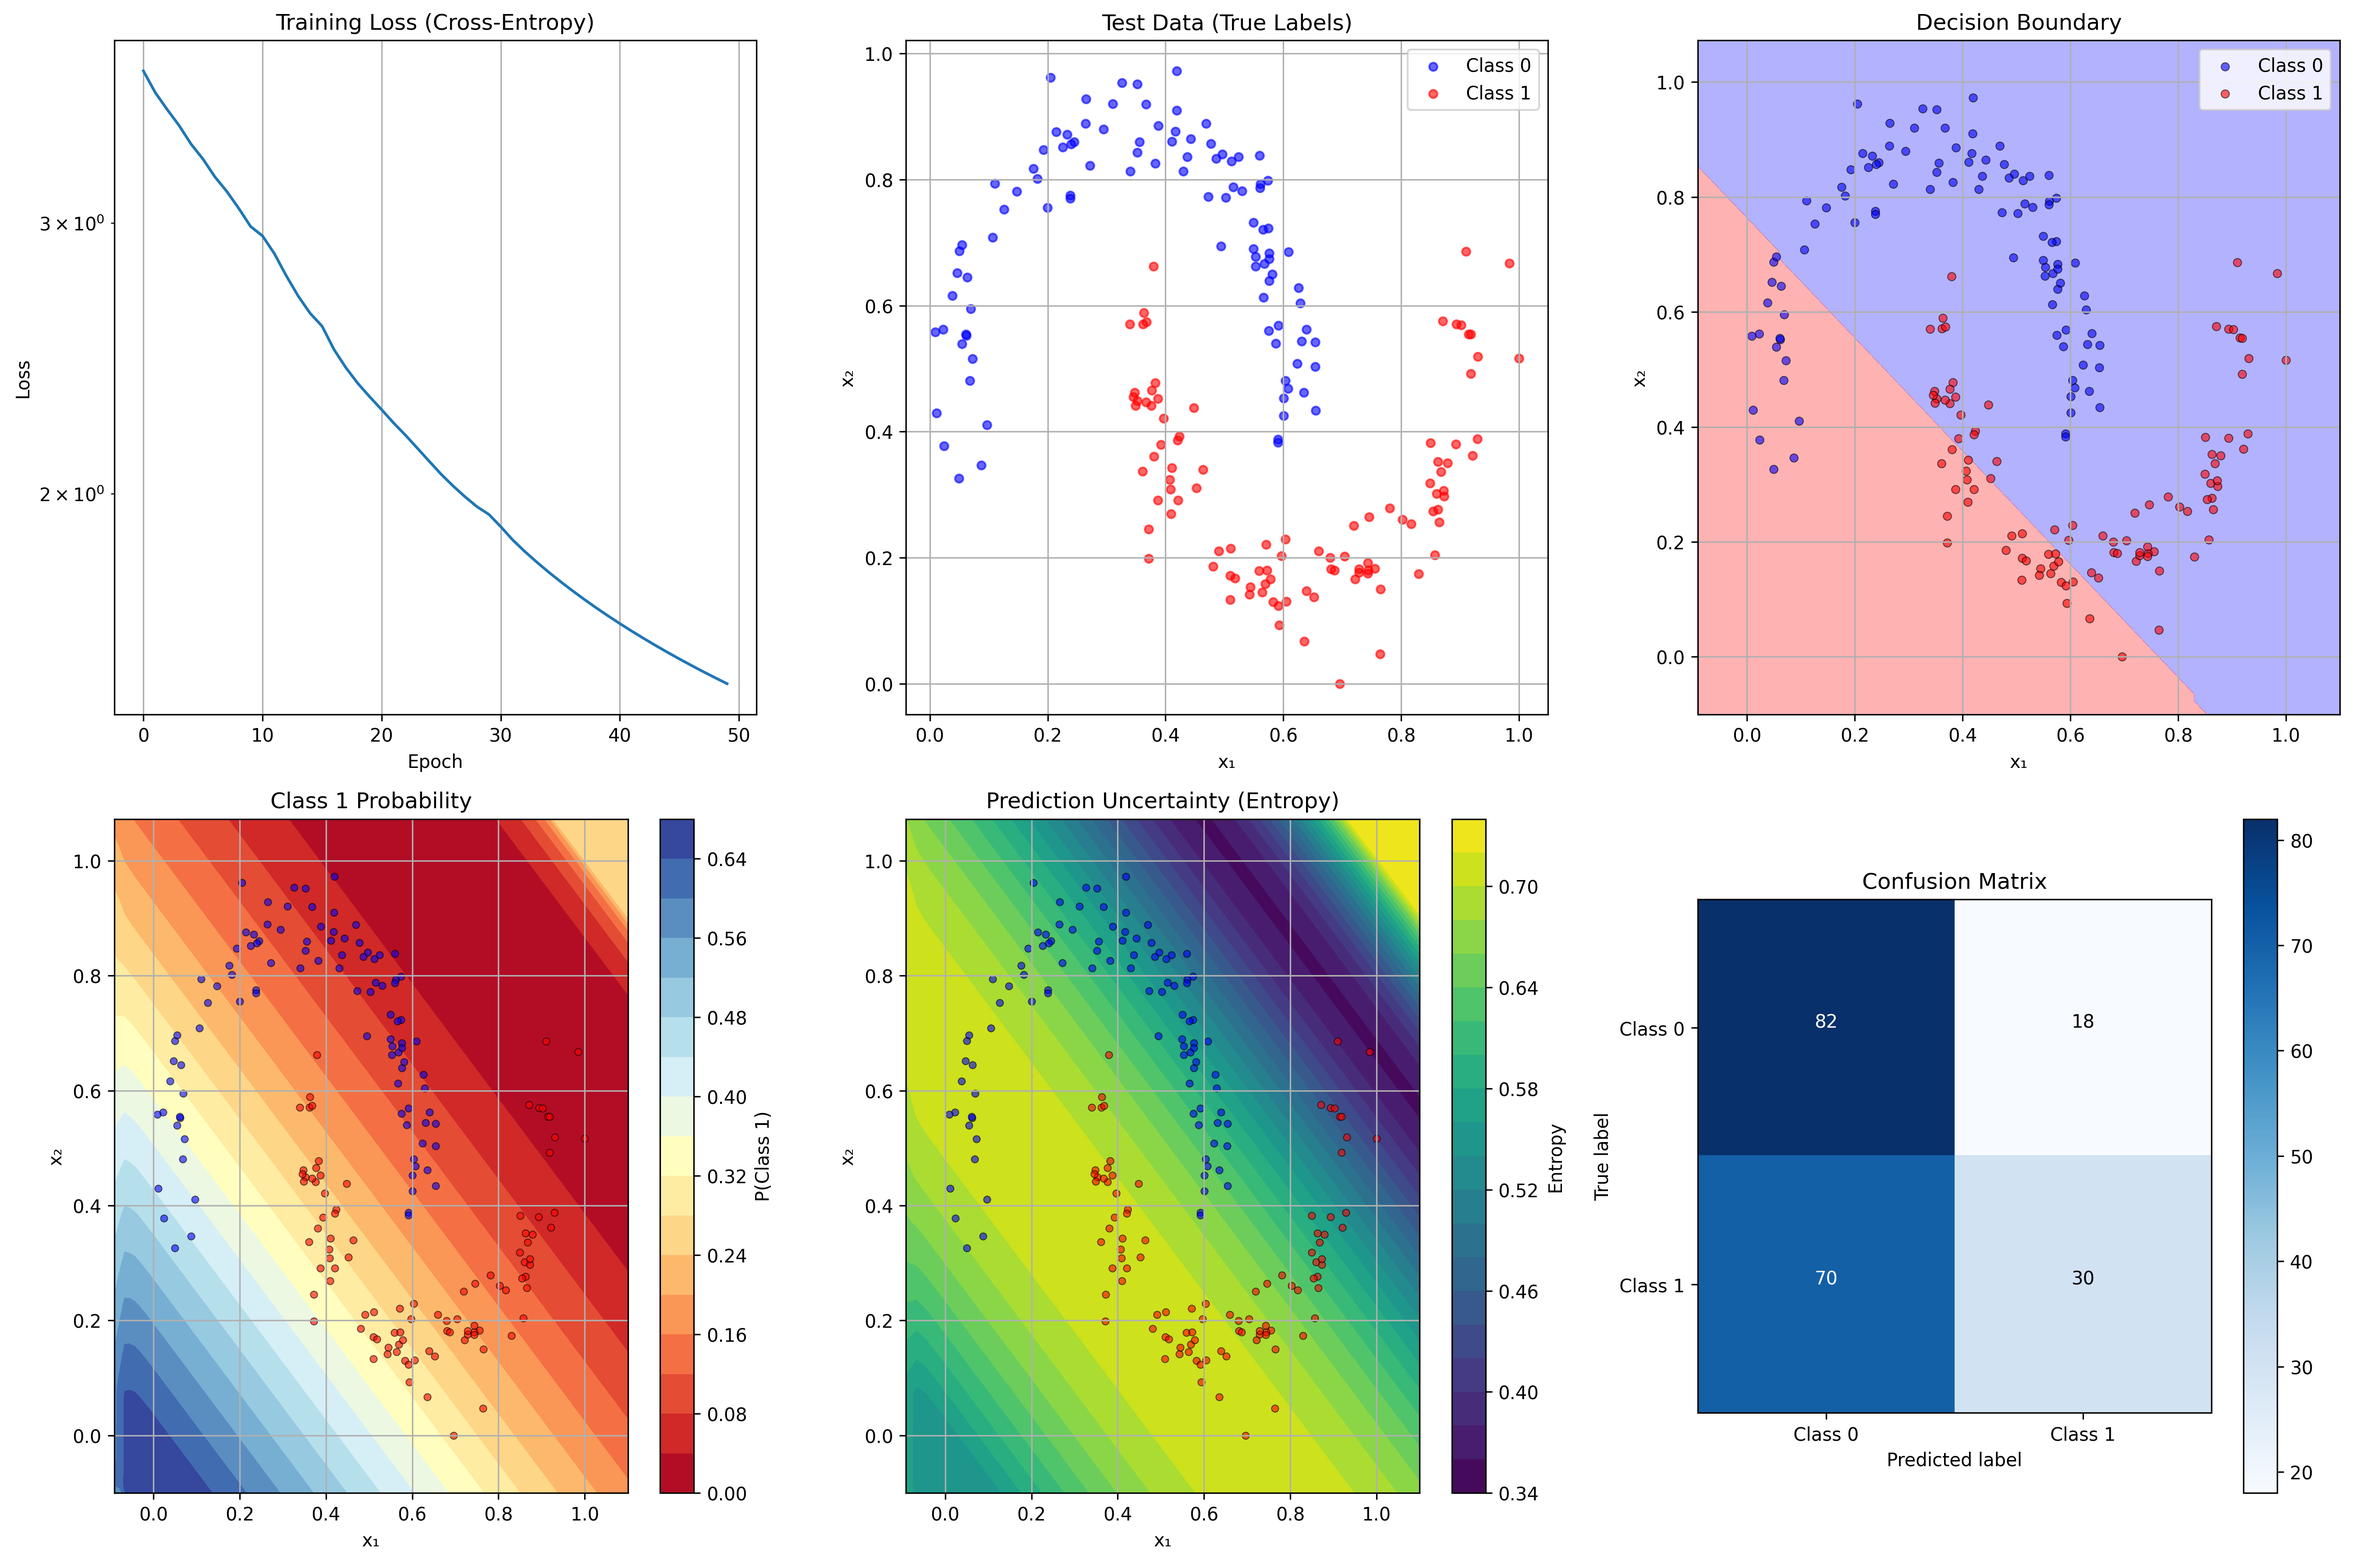
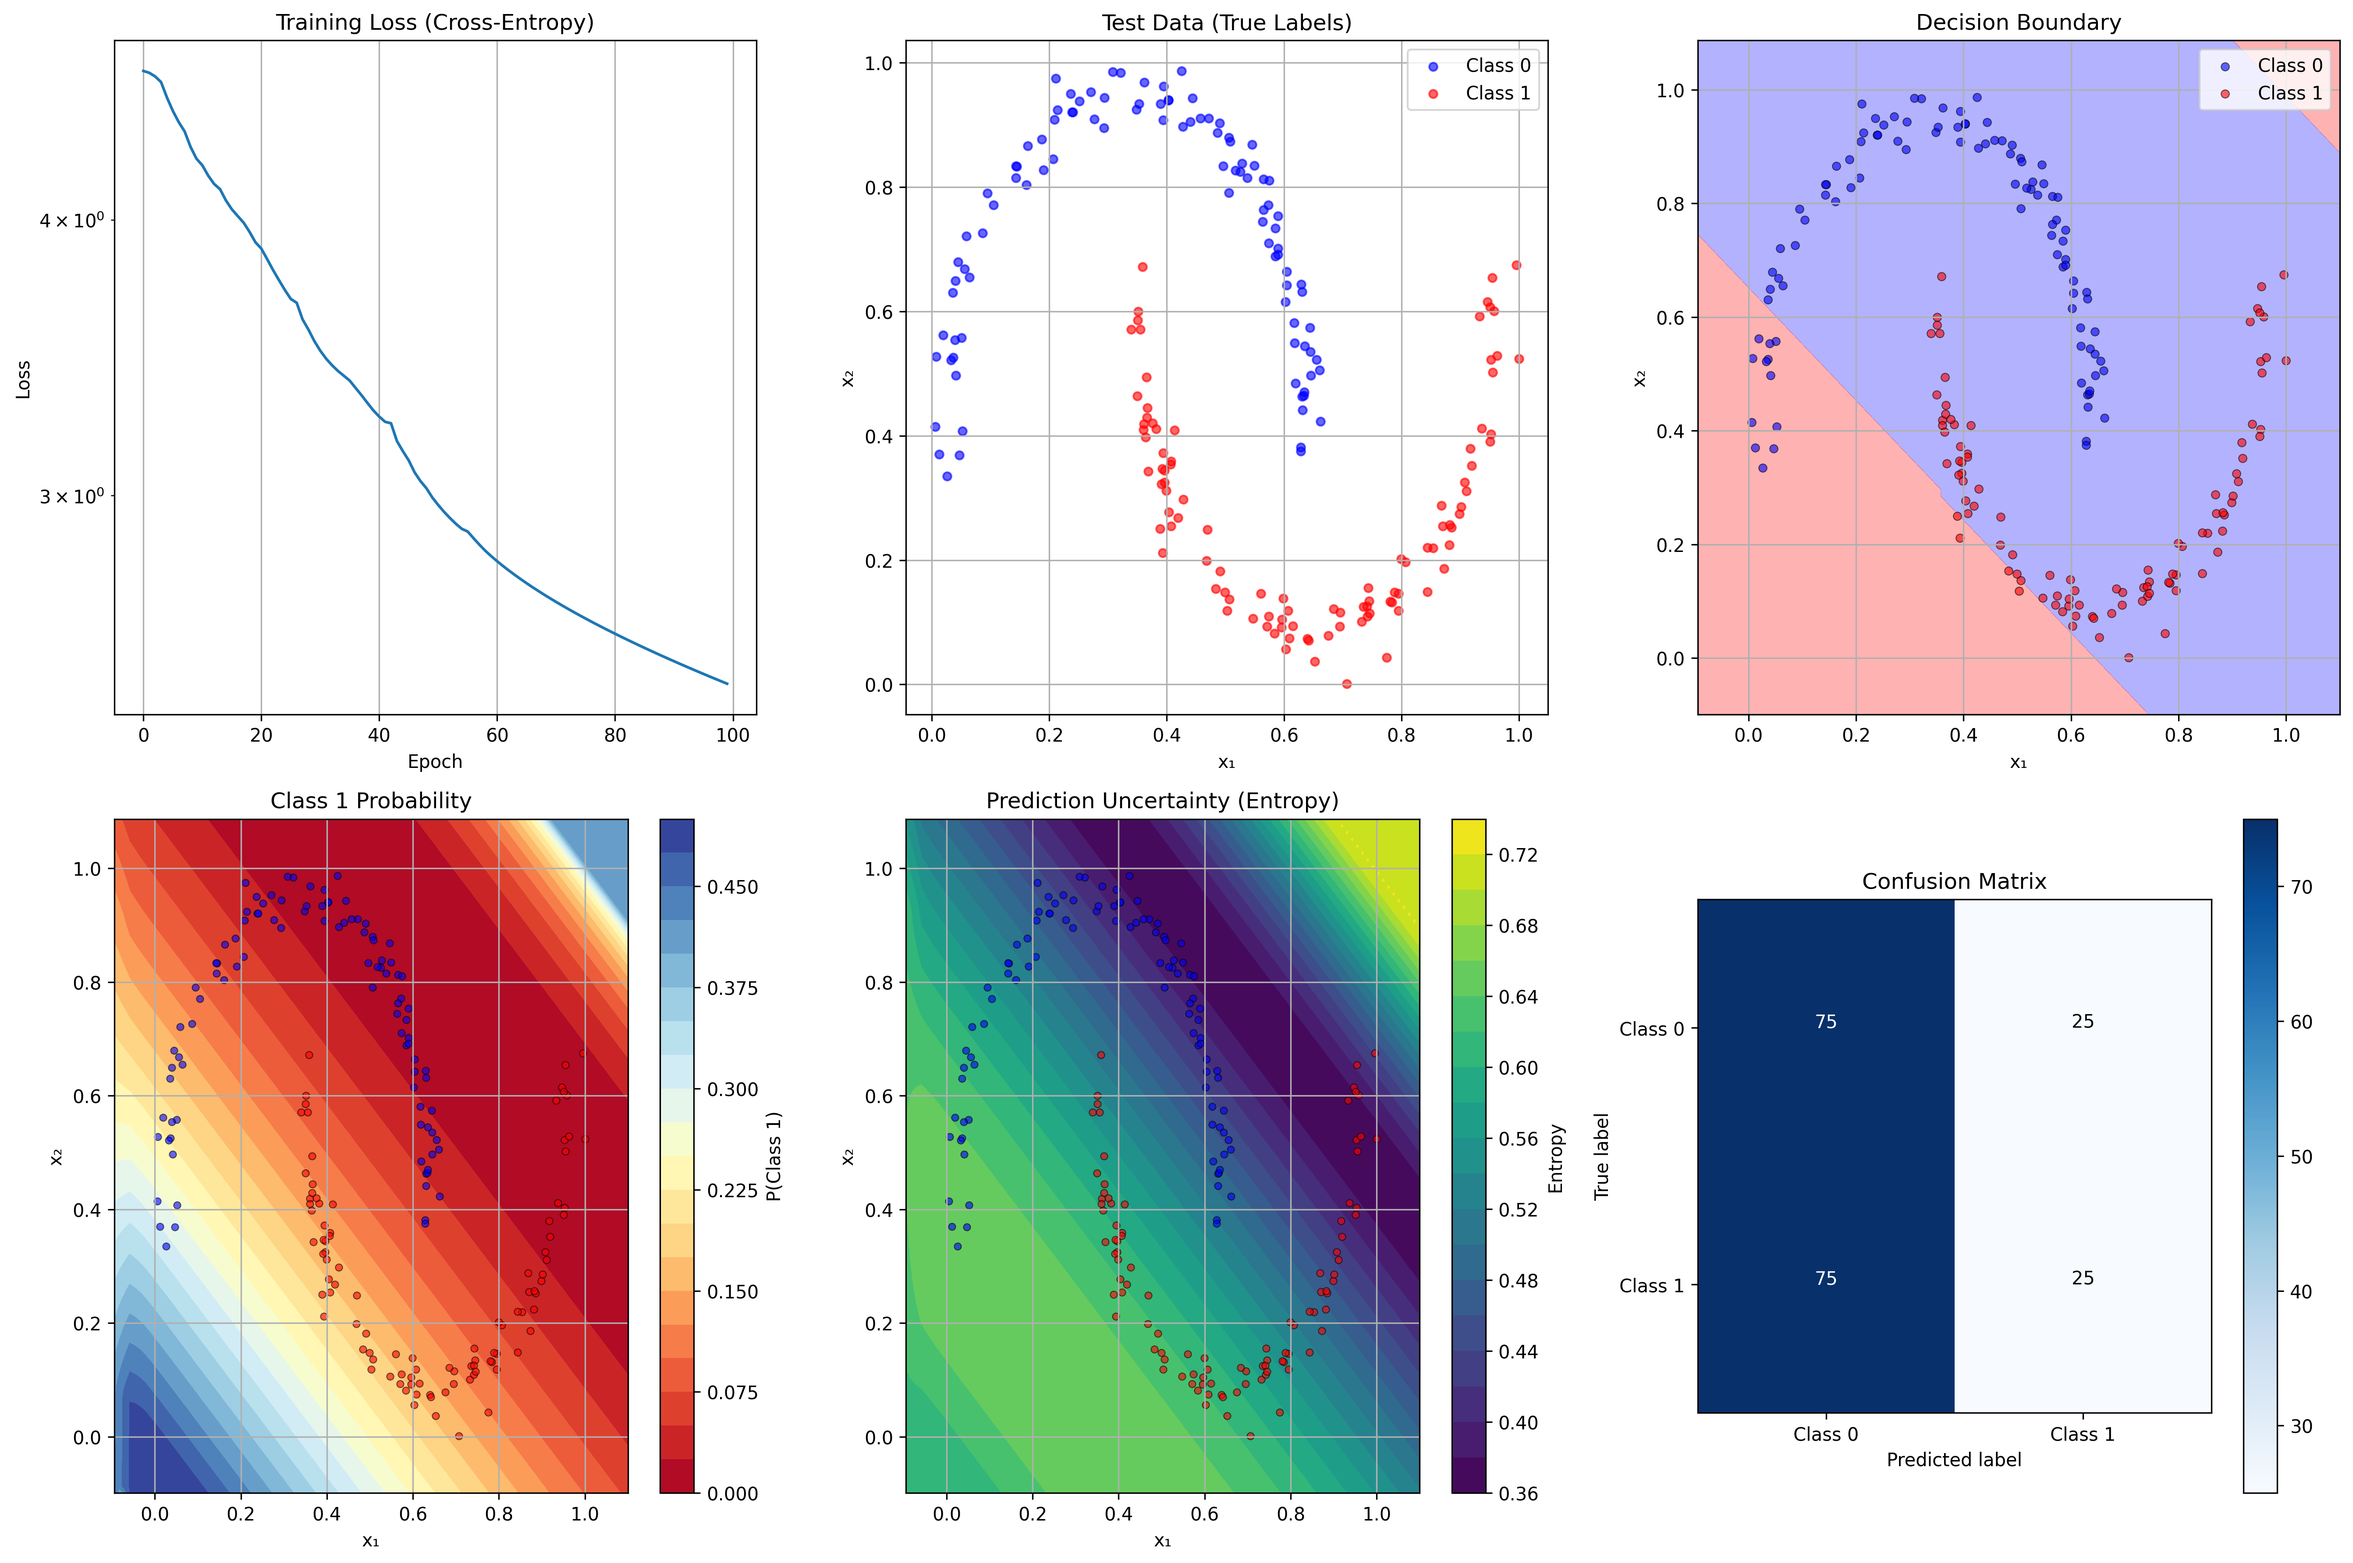
Update Two Moons classification example and fix notebook errors
- Adjusted hyperparameters in `two_moons_classification.py` for improved model performance, including learning rate, epochs, memory depth, and sample size.
- Changed noise level in dataset generation for cleaner training data.
- Updated encoding method for better handling of circular patterns in the dataset.
- Fixed import errors in notebooks by updating import statements and addressing missing modules.
- Updated Python version in notebook metadata for compatibility.

diff --git a/examples/two_moons_classification.py b/examples/two_moons_classification.py
@@ -35,12 +35,12 @@ def main():
     np.random.seed(42)
     
     # Configure parameters
-    config['lr'] = 0.03
-    config['epochs'] = 50
-    config['memory_depth'] = 2
+    config['lr'] = 0.01  # Reduced from 0.03 for more stable convergence
+    config['epochs'] = 100  # Increased from 50 for more training time
+    config['memory_depth'] = 3  # Increased from 2 for more model capacity
     config['phase_idx'] = (0, 1)  # Indices of phase parameters (excluding weight)
     config['n_photons'] = (1, 1)  # Number of photons for each phase
-    n_samples = 500
+    n_samples = 1000  # Increased from 500 for better probability estimates
     n_phases = 2
     n_classes = 2  # Binary classification
     
@@ -48,7 +48,7 @@ def main():
     print("Generating Two Moons dataset...")
     X_train, y_train, X_test, y_test = get_two_moons_data(
         n_samples=1000,
-        noise=0.1,
+        noise=0.05,  # Reduced from 0.1 for cleaner training data
         random_state=42,
         return_one_hot=False
     )
@@ -59,8 +59,8 @@ def main():
     
     # Encode 2D features to phase values
     print("Encoding 2D features to phase values...")
-    enc_train = encode_2d_to_phase(X_train, method='weighted_sum')
-    enc_test = encode_2d_to_phase(X_test, method='weighted_sum')
+    enc_train = encode_2d_to_phase(X_train, method='radial')  # Changed from 'weighted_sum' - better for circular patterns
+    enc_test = encode_2d_to_phase(X_test, method='radial')
     
     # Train the model with discrete phases
     print("Training model with discrete phases...")

diff --git a/README.md b/README.md
@@ -221,7 +221,7 @@ See `examples/simple_classification.py`, `examples/multi_class_classification.py
 
 ### Two Moons Dataset Example
 Taking implementation from https://github.com/lightning-uq-box/lightning-uq-box/blob/main/lightning_uq_box/datamodules/toy_half_moons.py
-
+    
 
 The Two Moons dataset is a classic 2D binary classification benchmark:
 
